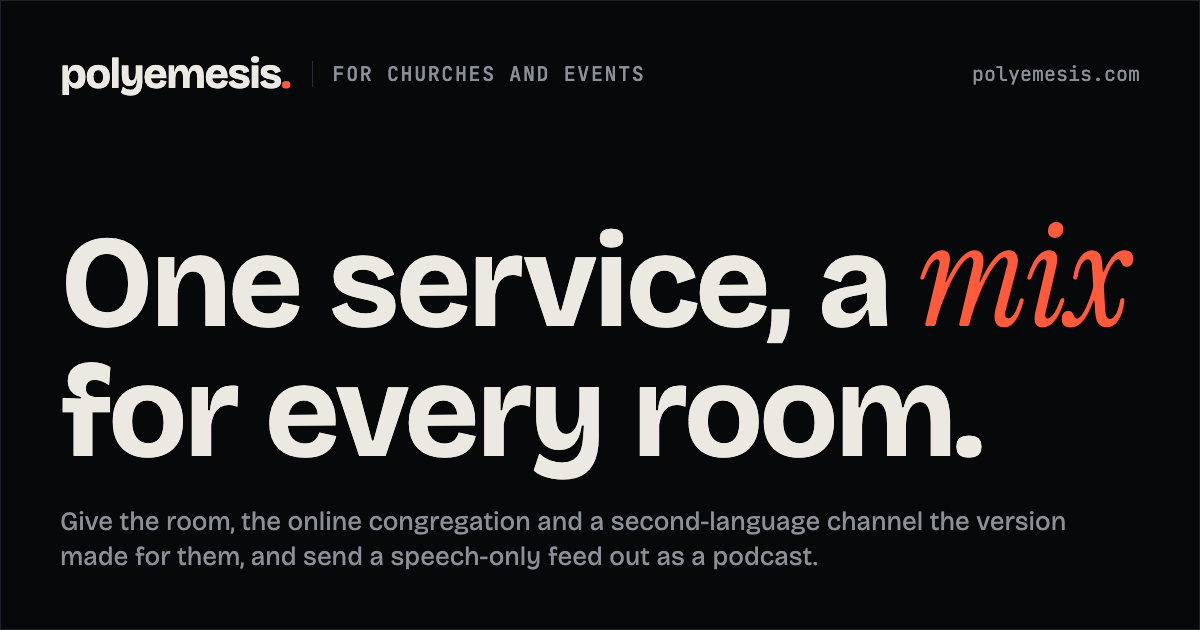
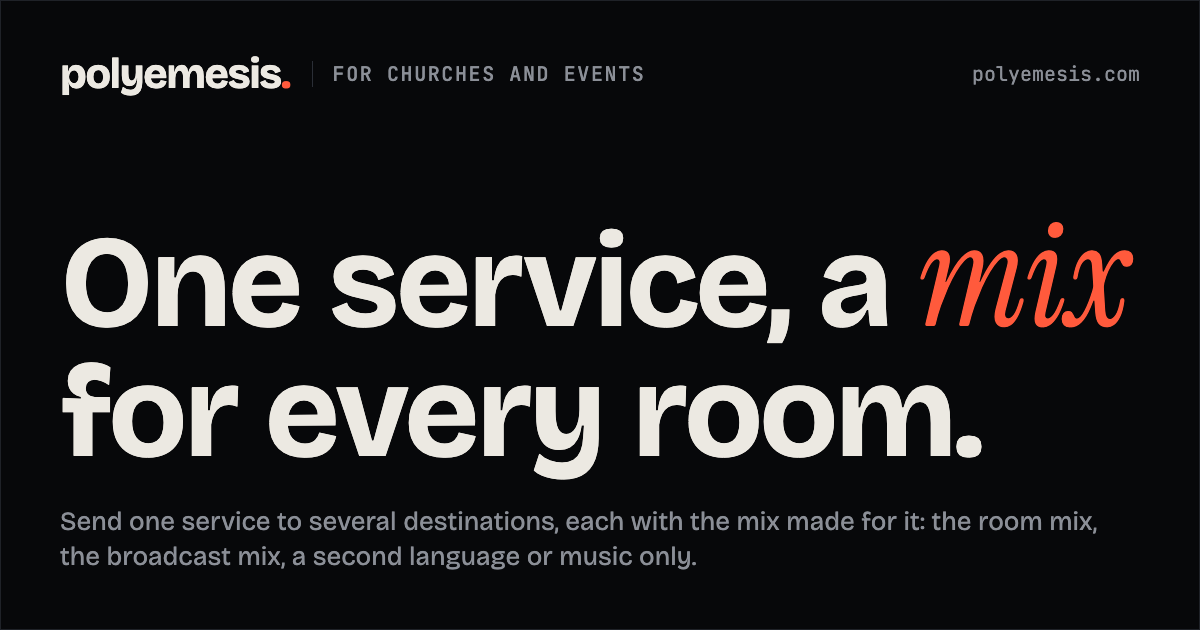
site: audience pages say only what the docs and the diagrams support
Claude-Session: https://claude.ai/code/session_016Mn1KjjUD4CwGFdwYj55F2

Changed region(s): [[0.0308, 0.8143, 0.925, 0.8444], [0.0308, 0.8746, 0.6783, 0.9048]]

diff --git a/web/src/lib/audiences-data.test.ts b/web/src/lib/audiences-data.test.ts
@@ -60,9 +60,8 @@ describe("audience data", () => {
         expect(existsSync(shotsDir + sh.file), sh.file).toBe(true);
         if (a.key === "sports") expect(sh.caption).toBeUndefined();
       }
-      // A file may be reused only where the plan says (destinations on the streamer page).
       const files = shots.map((s: { file: string }) => s.file);
-      if (a.key !== "streamer") expect(new Set(files).size).toBe(files.length);
+      expect(new Set(files).size).toBe(files.length);
     }
   });
 
@@ -82,5 +81,24 @@ describe("audience data", () => {
   it("avoids the banned words", () => {
     const text = readFileSync(fileURLToPath(new URL("../data/audiences.mjs", import.meta.url)), "utf8");
     expect(text).not.toMatch(/bypass|dodge|DMCA|pre-release|Stream Deck\+|minute|\b\d+\s+stars?\b/i);
+  });
+
+  it("never states a connected account without the stream-key alternative", () => {
+    for (const a of audiences) {
+      for (const f of factsOf(a)) {
+        if (/connected (youtube )?account/i.test(f.text) && f.doc === "quickstart") expect(f.text, f.text).toMatch(/stream key/i);
+      }
+    }
+  });
+
+  it("says no destination the case does not have", () => {
+    // A claim about a kind of destination may appear in an audience's own strings only if its case has it.
+    const KINDS = [/podcast/i, /speech-only/i, /congregation/i];
+    for (const a of audiences) {
+      const c = CASES[a.key];
+      const caseText = [...c.tracks.map((t: { label: string }) => t.label), ...c.dests.map((d: { name: string }) => d.name)].join(" ");
+      const own = [a.title, a.description, a.heading, a.lede, a.band.heading, a.band.lede].join(" ");
+      for (const k of KINDS) if (k.test(own)) expect(caseText, `${a.key}: "${k}" is not in its case`).toMatch(k);
+    }
   });
 });

diff --git a/web/src/lib/audience-page.test.ts b/web/src/lib/audience-page.test.ts
@@ -28,6 +28,11 @@ describe("AudiencePage.astro", () => {
     expect(layout).not.toContain("<style");
   });
 
+  it("renders the fine print once, straight after the diagram", () => {
+    expect(layout.match(/data-fine/g)).toHaveLength(1);
+    expect(layout).toMatch(/<RoutingDiagram[^>]*\/>\s*<p class="fine" data-fine>\{c\.fine\}<\/p>/);
+  });
+
   it("shows the demo caption on every non-sports shot and the sports page's none", () => {
     for (const a of Object.values(AUDIENCES)) {
       for (const s of a.steps as { shot?: { caption?: string } }[]) {
